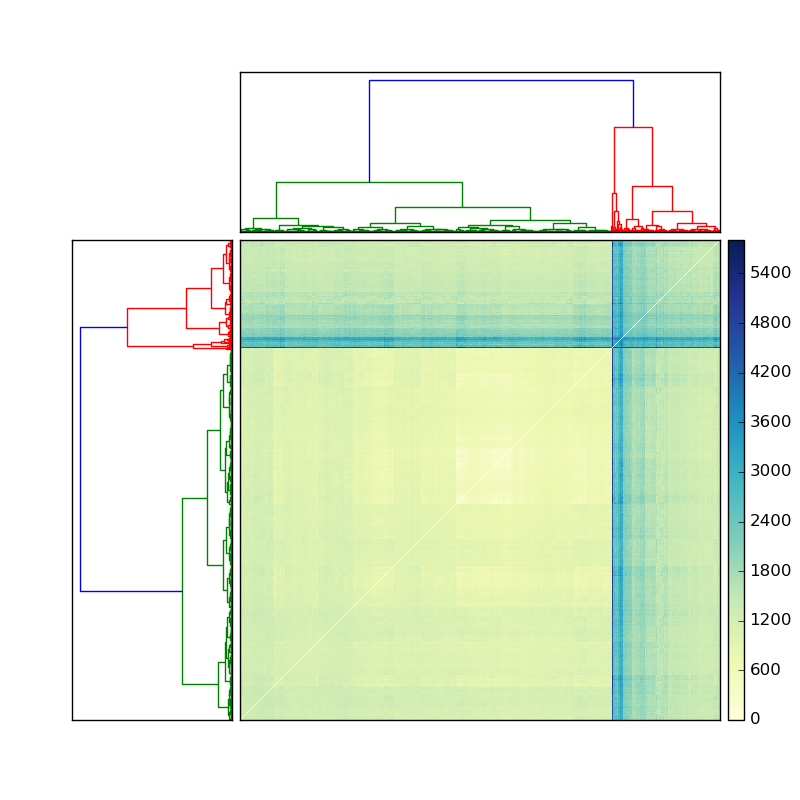
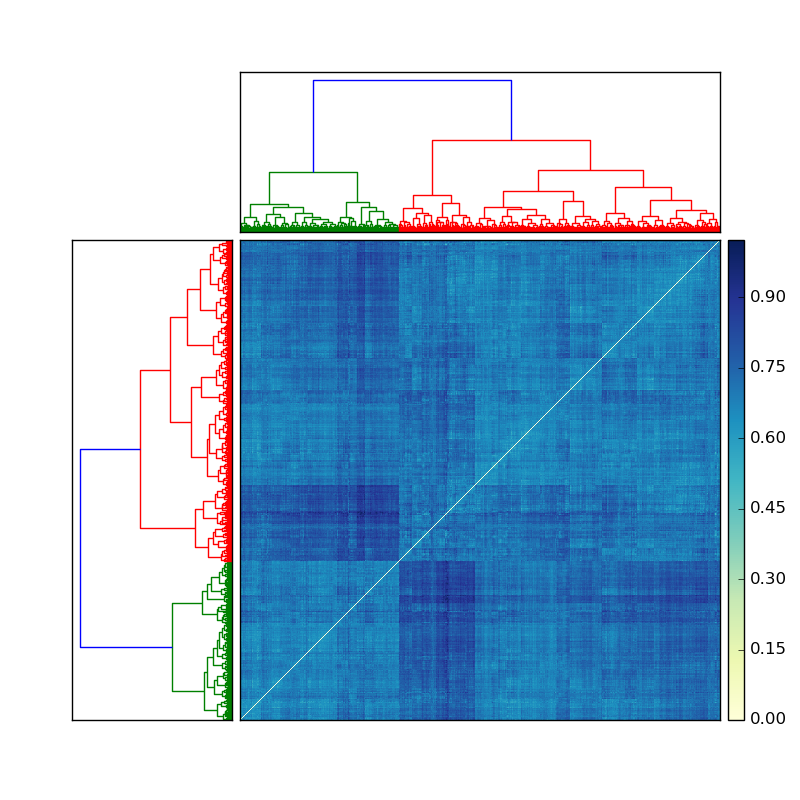
parallel 7000

diff --git a/parallel_dtw.py b/parallel_dtw.py
@@ -7,7 +7,25 @@ import numpy as np
 import cPickle as pickle
 from pydtw import dtw2d
 from joblib import Parallel, delayed
+from collections import defaultdict
+import itertools
+import joblib.parallel
 
+class CallBack(object):
+    completed = defaultdict(int)
+
+    def __init__(self, index, parallel):
+        self.index = index
+        self.parallel = parallel
+
+    def __call__(self, index):
+        CallBack.completed[self.parallel] += 1
+        if CallBack.completed[self.parallel] % 743 == 0:
+            print("{}%".format(CallBack.completed[self.parallel]/74))
+        if self.parallel._original_iterable:
+            self.parallel.dispatch_next()
+
+joblib.parallel.CallBack = CallBack
 
 # In[81]:
 
@@ -15,23 +33,15 @@ def pickle_this(data, filename='distance_matrix.p'):
     pickle.dump(data, open(filename, 'wb'))
 
 
-# In[82]:
-
-def inner_loop(sample, i, n):
-    row = np.zeros((n,))
-    for j in xrange(i, n):
-        row[j] = dtw2d(sample[i], sample[j])[-1,-1]
-    return row
-
 
 # In[83]:
 
-sample = pickle.load( open( 'sample_pitches.p', 'rb' ) )
-n = sample.shape[0]
+sample = pickle.load( open( 'pitches.p', 'rb' ) )
+n = len(sample)
 
 
 # In[95]:
 
-distance_matrix = np.asmatrix(Parallel(n_jobs=6)(delayed(inner_loop)(sample, i, n) for i in range(n)))
+distance_matrix = np.asmatrix(Parallel(n_jobs=6)(delayed(dtw2d)(sample[i], sample[j]) for i,j in itertools.product(range(n), range(n)) if i < j))
 pickle_this(distance_matrix)
 

diff --git a/extract_chroma.py b/extract_chroma.py
@@ -6,21 +6,22 @@ import cPickle as pickle
 from random import sample
 
 def dump_pitches(rootdir = './data/', filename = 'pitches.p'):
-    h5list = []
     pitches = []
     tags = []
 
     for subdir, dirs, files in os.walk(rootdir):
         for f in files:
             if f.lower().endswith('.h5'):
-                h5list.append(hdf5_getters.open_h5_file_read(os.path.join(subdir, f)))
-                pitches.append(hdf5_getters.get_segments_pitches(h5list[-1]))
-                tags.append('%s - %s - %s - %s' % (hdf5_getters.get_artist_name(h5list[-1]), hdf5_getters.get_title(h5list[-1]), hdf5_getters.get_year(h5list[-1]), hdf5_getters.get_tempo(h5list[-1])))
-                h5list[-1].close()
-    del h5list
+                h5f = hdf5_getters.open_h5_file_read(os.path.join(subdir, f))
+                seg_ptcs = hdf5_getters.get_segments_pitches(h5f)
+                if 500 <= seg_ptcs.shape[0] <= 1500:
+                    pitches.append(seg_ptcs)
+                    tags.append('%s - %s - %s - %s' % (hdf5_getters.get_artist_name(h5f), hdf5_getters.get_title(h5f), hdf5_getters.get_year(h5f), hdf5_getters.get_tempo(h5f)))
+                h5f.close()
 
     pickle.dump( pitches, open( filename, 'wb' ) )
     pickle.dump( tags, open( 'tags.p', 'wb' ) )
+    print 'Saved {} pitches.'.format(len(pitches))
 
 
 def dump_sample(n = 100, filename = 'sample_pitches.p'):

diff --git a/tsne.py b/tsne.py
@@ -2,7 +2,7 @@ import numpy as np
 
 import sklearn
 from sklearn.manifold import TSNE
-
+from dendro import symmetrize
 import matplotlib.pyplot as plt
 import matplotlib
 
@@ -33,7 +33,7 @@ def scatter(x):
 # Random state. If None, use the numpy.random singleton 
 RS = None 
 
-D = pickle.load(open('distance_matrix.p', 'rb'))
+D = symmetrize(pickle.load(open('distance_matrix.p', 'rb')))
 
 proj = TSNE(n_components=2, random_state=RS, metric='precomputed').fit_transform(D)
 scatter(proj)

diff --git a/dtw.py b/dtw.py
@@ -2,7 +2,7 @@ from numpy import array, zeros, argmin, inf
 from numpy.linalg import norm
 
 
-def dtw(x, y, dist=lambda x, y: norm(x - y, ord=1)):
+def dtw(x, y, dist=lambda x, y: norm(x - y, ord=2)):
     """ Computes the DTW of two sequences.
 
     :param array x: N1*M array
